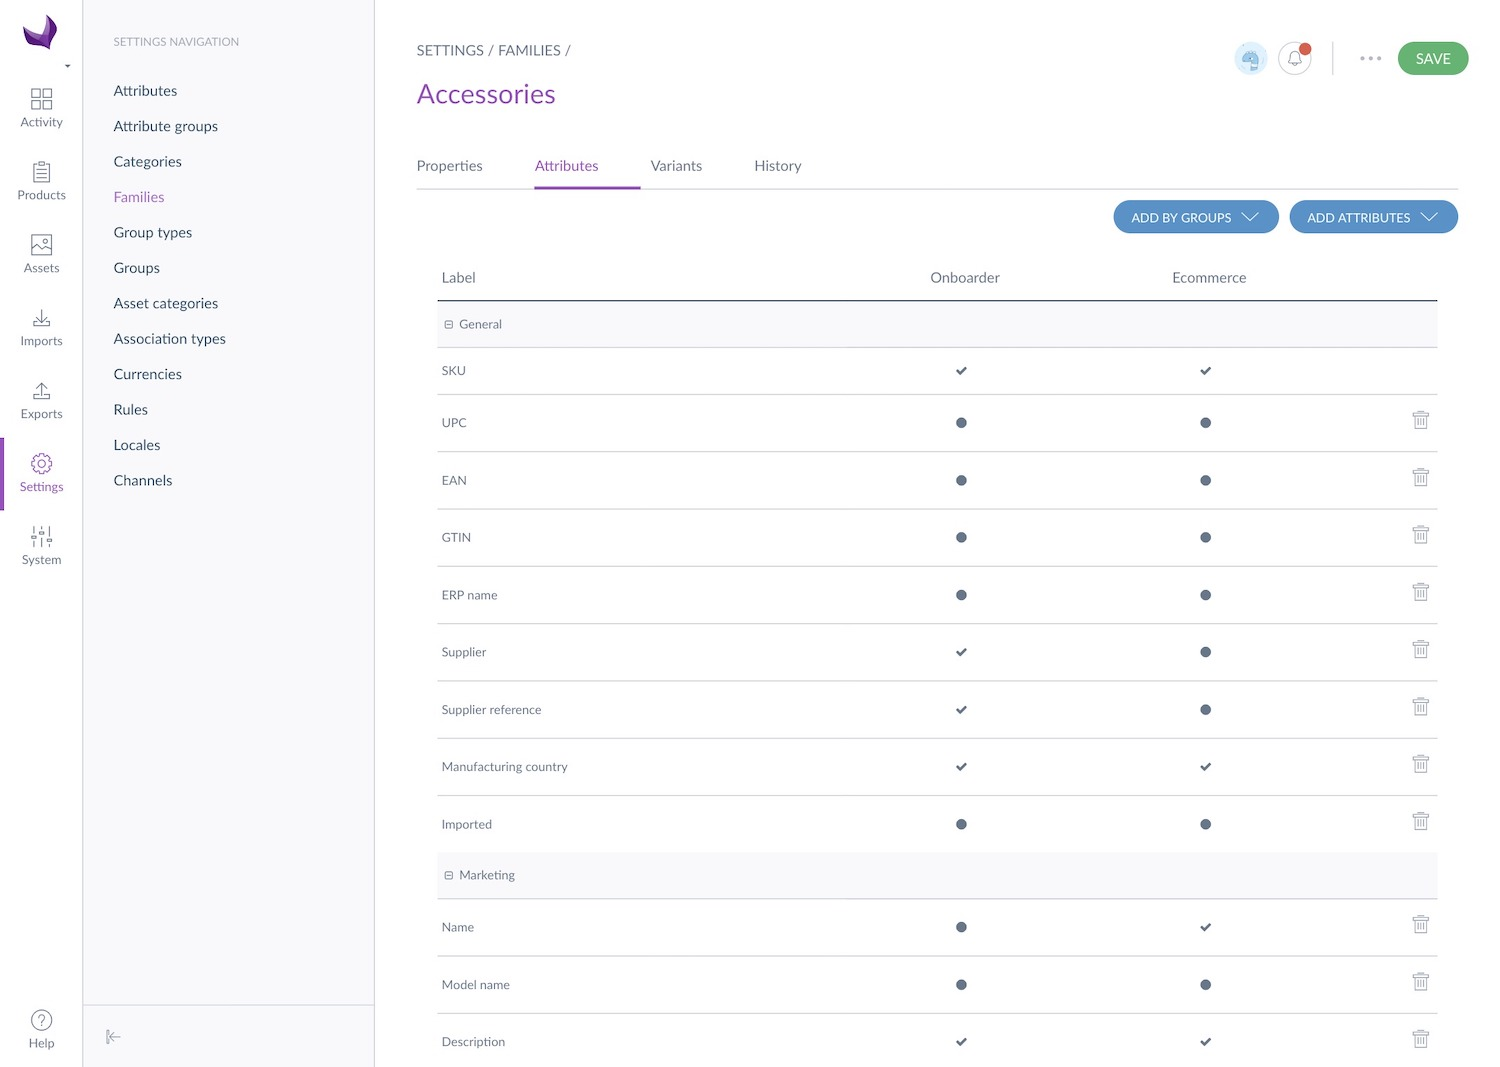
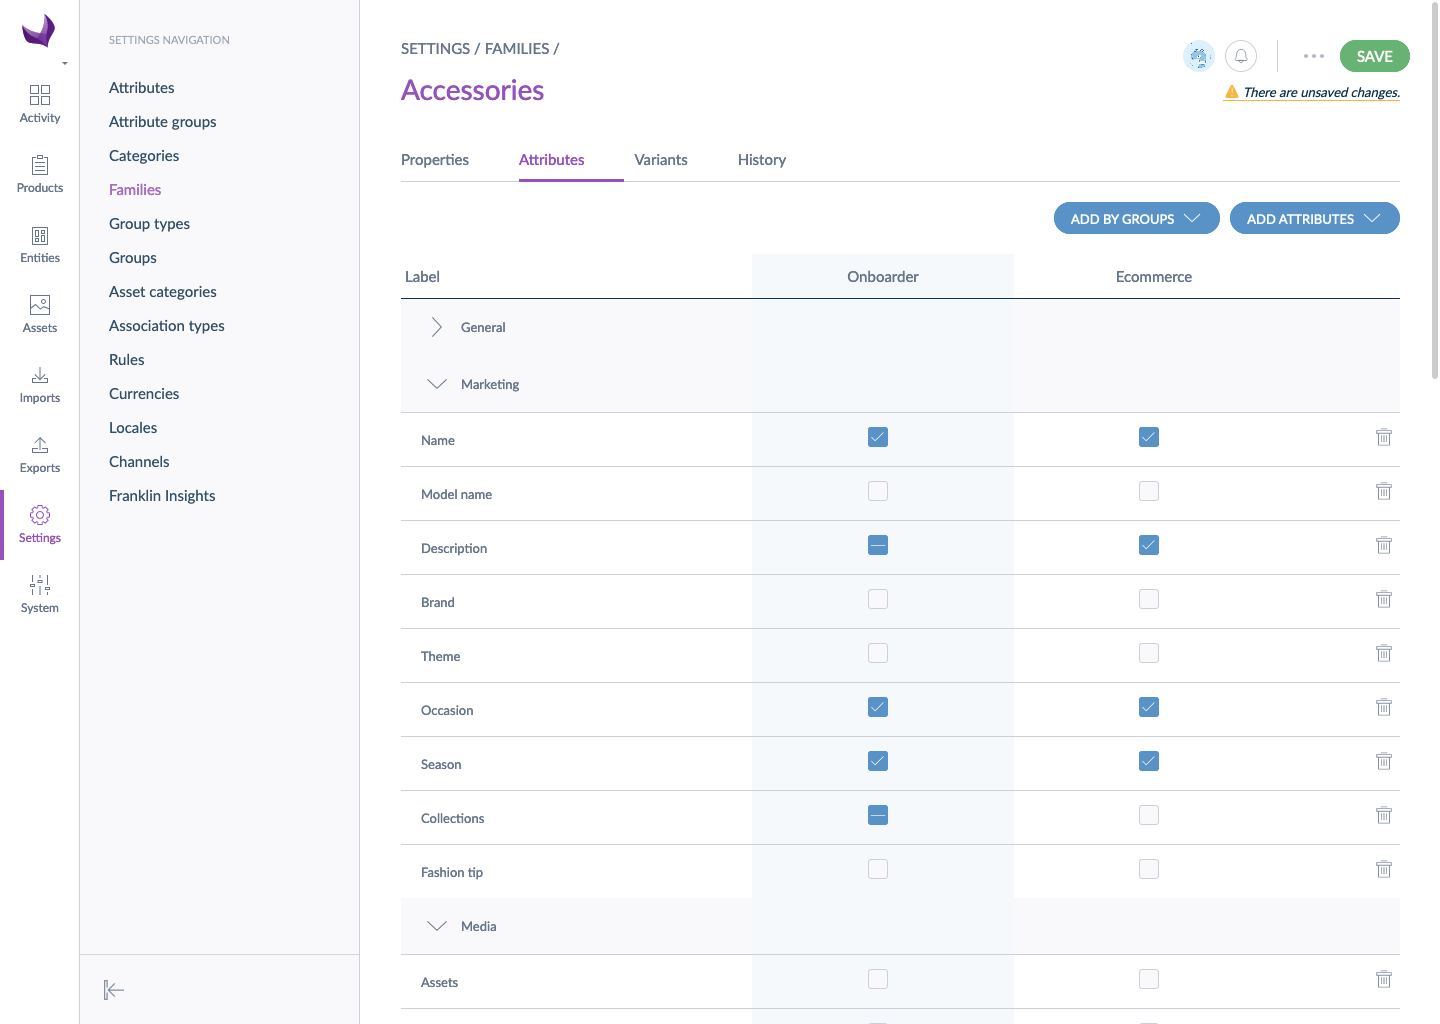
complete content with nice to have attributes & update picture

diff --git a/content/md/retailer-onboarder/define-suppliers-scope/define-product-requirements.md b/content/md/retailer-onboarder/define-suppliers-scope/define-product-requirements.md
@@ -11,15 +11,20 @@ popular: true
 
 The goal of the Onboarder is to save time during product collection from the suppliers. The idea is not for you to manipulate product data but to receive structured data. To do so, you will be able to define the attributes you expect your suppliers to fill in for each family. The requirements for your suppliers will be defined like any other PIM channel.
 
-As soon as an Onboarder is installed alongside an Akeneo PIM, a new channel  called `Onboarder` is automatically added to your PIM. Thanks to this channel, you will be able to define the attributes you want your suppliers to complete. Each attribute defined as required in family for the `Onboarder` channel will be sent to the relevant Supplier Onboarder. For each family, the attributes sent to the Supplier Onboarder are the following:
+As soon as an Onboarder is installed alongside an Akeneo PIM, a new channel  called `Onboarder` is automatically added to your PIM. Thanks to this channel, you will be able to define the attributes you want your suppliers to complete. All attributes defined as required or nice to have in a family for the `Onboarder` channel will be sent to the relevant Supplier Onboarder. For each family, the attributes sent to the Supplier Onboarder are the following:
 
 * attribute used as label
 * attribute used as the main picture
 * attribute used as identifier
 * required attributes
+* nice to have attributes
 
 :::info
 The attribute used as identifier will be displayed in read-only in the Supplier Onboarder.
+:::
+
+::: success
+Only the attributes marked as 'required' are taken into account for the completeness of products. The nice to have attributes are not mandatory to synchronize the product. 
 :::
 
 # Via flat files import

diff --git a/content/md/supplier-onboarder/update-products.md b/content/md/supplier-onboarder/update-products.md
@@ -40,8 +40,12 @@ The meta data panel displays information regarding your product such as:
 The attribute panel displays all the attributes of your product.
 
 :::info
-All the attributes that are displayed on the product form have been defined by the retailer. They have to be filled in so that they can be reviewed.
+All the attributes that are displayed on the product form have been defined by the retailer.
 :::
+
+All the attributes marked with the yellow bullet point are required for the retailer.
+
+If the attribute doesn't have the bullet point, it means that the retailer make it available for the supplier to complete but it is more a nice to have to help the retailer. 
 
 :::tips
 As soon as a product is complete, it is automatically sent to the Retailer Onboarder to be reviewed.
